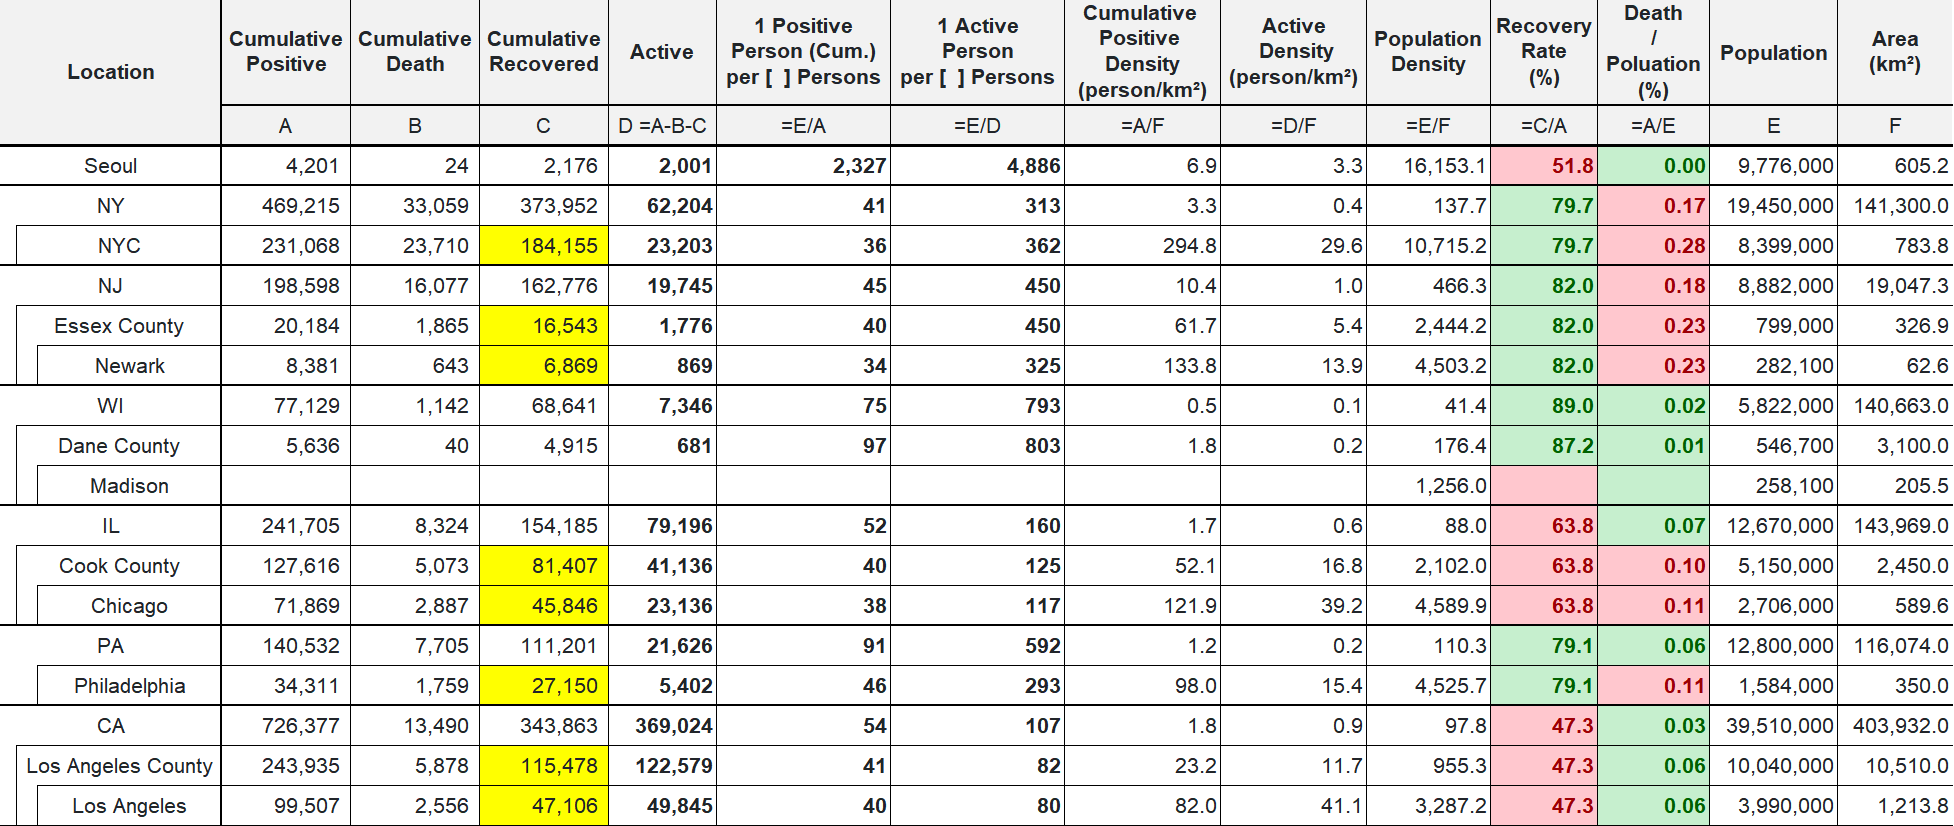
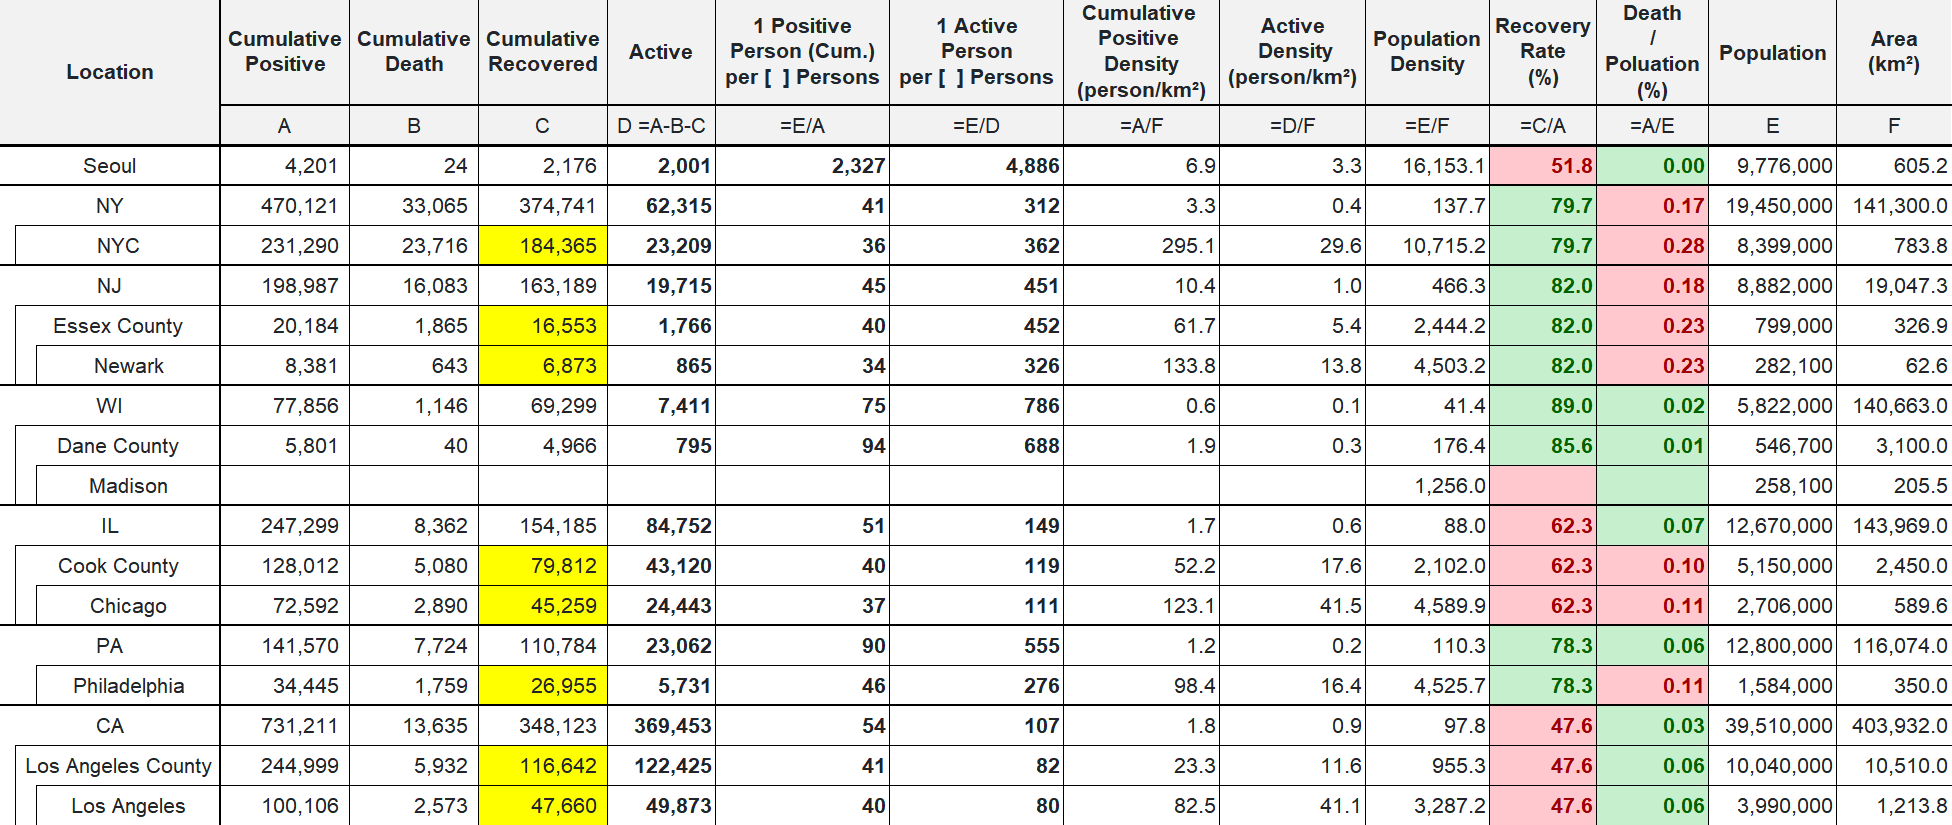
update 9/4 status

diff --git a/index.html b/index.html
@@ -19,7 +19,7 @@
 
 <body class="container-fluid">
 	<h1> CoronaV for Friends</h1>
-	<h2> Data updated at Sep 03 2020 EST 22:45</h2>
+	<h2> Data updated at Sep 04 2020 EST 20:15</h2>
 	<hr>
 	<main>
 		<div class="row">
